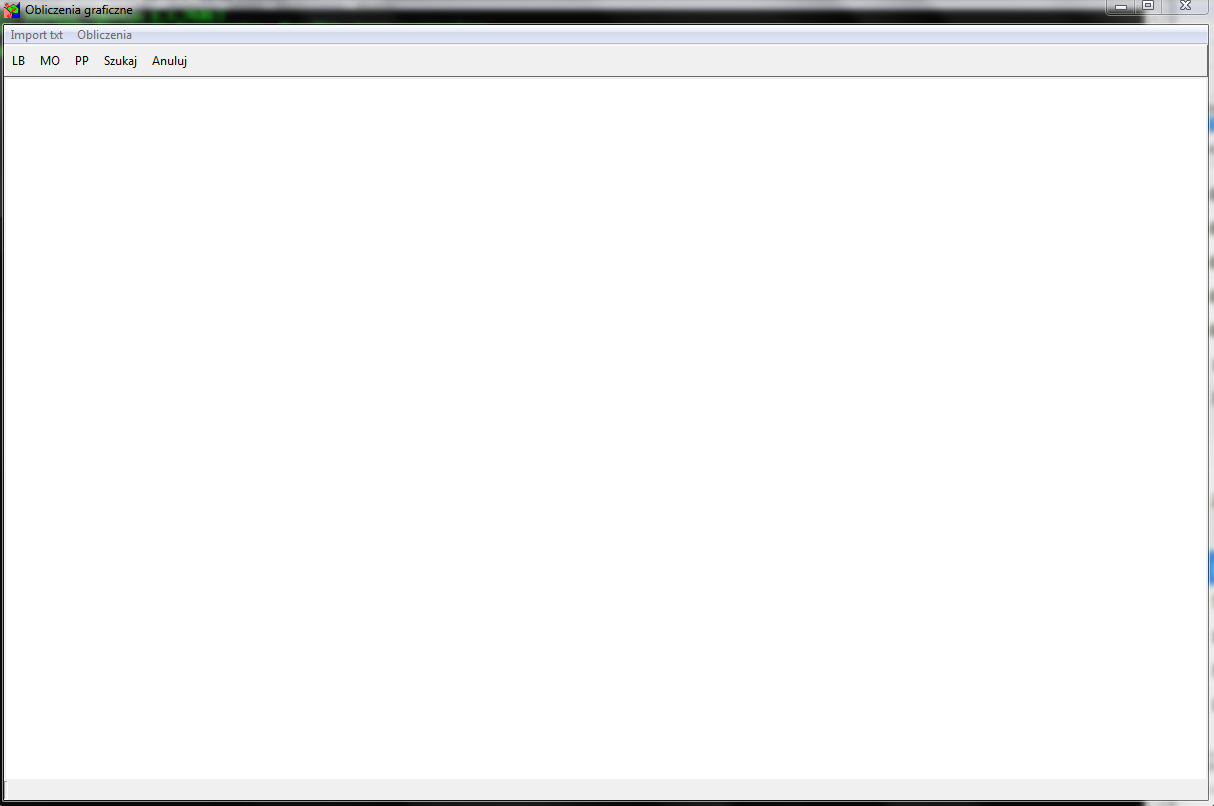
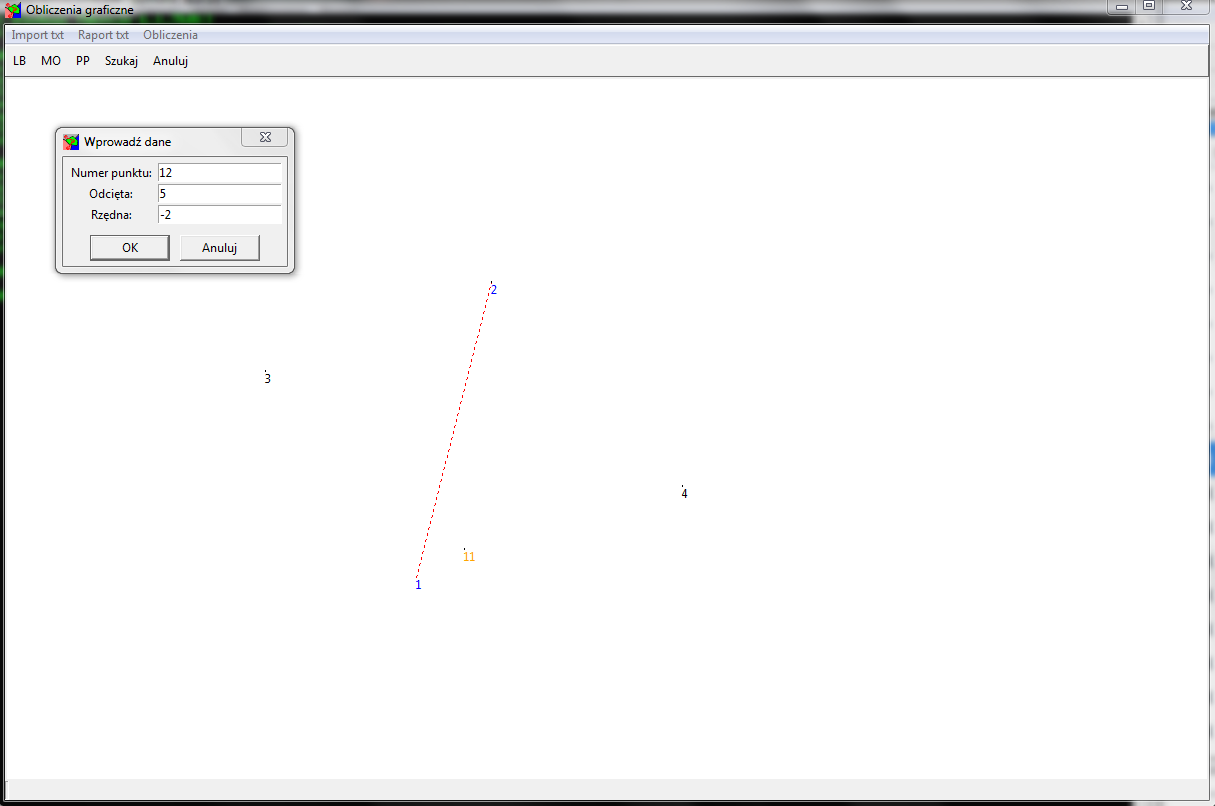
Dodano uproszczne raporty tekstowe

diff --git a/map.py b/map.py
@@ -10,7 +10,7 @@ from dialog import WDialog
 class Map(tk.Canvas):
 
     """
-    
+    Klasa będąca reprezentacją mapy dziedzicząca z bazowej klasy canvas
     """
    
 
@@ -38,10 +38,16 @@ class Map(tk.Canvas):
         
         
     def clear_point(self, id):
+        """
+        Przywracanie konfiguracji bazowej punktu
+        """
         if id is not None:
           self.itemconfigure(id, fill='black')
   
     def clear(self):
+        """
+        Anulowanie aktualnie realizowanej akcji
+        """
         self.clear_point(self.start_point.id)
         self.clear_point(self.end_point.id)
         self.start_point = None
@@ -54,6 +60,11 @@ class Map(tk.Canvas):
         
         
     def grab_start_point_number(self, event):
+        """
+        Metoda umożliwia wskazanie początku linii bazowej
+        Jedna linia bazowa umożliwa obliczenie miar ortogonalnych
+        Wskazanie dwóch po kolei umożliwia wyznaczenie ich przecięcia
+        """
         self.clear_point(self.start_point)
         x = self.canvasx(event.x)
         y = self.canvasy(event.y)
@@ -66,6 +77,9 @@ class Map(tk.Canvas):
         
         
     def grab_end_point_number(self, event):
+        """
+        Metoda umożliwia wskazanie końca linii bazowej
+        """
         self.clear_point(self.end_point)
         x = self.canvasx(event.x)
         y = self.canvasy(event.y)
@@ -79,19 +93,31 @@ class Map(tk.Canvas):
         self.sb.clear()
               
     def to_canvas_coordinates(self, px, py):
+        """
+        metoda konwertuje współrzędne geodezyjne na współrzędne obiektu canvas
+        """
         return px*self.ratio + self.offset[0], -py*self.ratio + self.offset[1]
 
     def to_geographical_coordinates(self, x, y):
+        """
+        metoda konwertuje współrzędne obiektu canvas na współrzędne geodezyjne
+        """
         px, py = (x - self.offset[0])/self.ratio, (self.offset[1] - y)/self.ratio
         return px, py
 
     def import_map(self):
+        """
+        Metoda wczytująca dane z pliku
+        """
         self.delete('all')
         self.filepath = filedialog.askopenfilename(title='Import txt')
         self.draw_map()
         self.sb.set('Wczytano plik %s' % self.filepath)
     
     def draw_map(self):
+        """
+        Metoda odpowiedzialna za rysowanie wczytywanych punktów
+        """
         pt = [i.strip().split() for i in open(self.filepath)]
         for p in pt:
             number, x, y = p
@@ -105,6 +131,9 @@ class Map(tk.Canvas):
         self.configure(scrollregion=self.bbox('all'))
          
     def linia_bazowa(self):
+        """
+        Metoda inicjująca wskazywanie linii bazowej
+        """
         if self.start_point is not None and self.end_point is not None:
             self.clear_point(self.start_point.id)
             self.clear_point(self.end_point.id)
@@ -114,6 +143,10 @@ class Map(tk.Canvas):
         self.sb.set('Wskaż początek linii pomiarowej')
         
     def ortog(self):
+        """
+        Metoda do obliczania miar ortogonalnych na podstawie elementów wskazanych przez
+        użytkownika na mapie
+        """
         self.lines = []
         if self.start_point is not None and self.end_point is not None:
             d = WDialog(self, title='Wprowadź dane', counter=self.point_number)
@@ -127,7 +160,7 @@ class Map(tk.Canvas):
                 self.last_circle_id = self.create_oval(self.to_canvas_coordinates(nowy.y, nowy.x), self.to_canvas_coordinates(nowy.y, nowy.x), stat=tk.DISABLED)
                 nowy.set_id(t)
                 self.points[t] = nowy
-                self.obliczone.append((sp, ep, nowy))
+                self.obliczone.append(['MO', str(sp), str(ep), str(nowy), str(odcieta), str(rzedna)])
                 self.point_number = num + 1
             else:
                 self.clear_point(self.start_point.id)
@@ -137,6 +170,10 @@ class Map(tk.Canvas):
                 self.bind("<Button-1>", self.grab_start_point_number)
     
     def przeciecie_prostych(self):
+        """
+        Metoda do obliczania przecięcia prostych na podstawie elementów
+        wskazanych przez użytkownika
+        """
         if len(self.lines) == 2:
             sp1, ep1 = self.lines[0]
             sp2, ep2 = self.lines[1]
@@ -147,7 +184,7 @@ class Map(tk.Canvas):
             self.last_circle_id = self.create_oval(self.to_canvas_coordinates(nowy.y, nowy.x), self.to_canvas_coordinates(nowy.y, nowy.x), stat=tk.DISABLED)
             nowy.set_id(t)
             self.points[t] = nowy
-            self.obliczone.append((sp1, ep1, sp2, ep2, nowy))
+            self.obliczone.append(['PP', str(sp1), str(ep1), str(sp2), str(ep2), str(nowy)])
             self.point_number = num + 1
             self.lines = []
         else:
@@ -155,6 +192,9 @@ class Map(tk.Canvas):
                 
                    
     def zoomer(self, event, factor=None):
+        """
+        Metoda obsługująca powiększanie i pomniejszanie zakresu mapy
+        """
         if not factor:
             factor = 1.2 if event.delta > 0 else 0.8
         event.x, event.y = self.canvasx(event.x), self.canvasy(event.y)

diff --git a/app.py b/app.py
@@ -19,15 +19,22 @@ class App:
         self.out_path = os.path.join(os.getcwd(), 'out')
         if not os.path.exists(self.out_path):
             os.mkdir(self.out_path)
-        filename = datetime.datetime.now().strftime('%Y%m%d_%H%M%S') + '.txt'
-        self.file_path = os.path.join(self.out_path, filename)
-        with open(self.file_path, 'w') as outfile:
-            outfile.close()
+        self.filename = datetime.datetime.now().strftime('%Y%m%d_%H%M%S') + '.txt'
+        self.file_path = os.path.join(self.out_path, self.filename)
+        
         self.status_bar = StatusBar(self.root)
         self.map_canvas = Map(self.root, self.status_bar, self.file_path)
         self.make_widgets()
         self.last_searched = []
         self.root.iconbitmap('./img/gcalc.ico')
+        
+    def txt_report(self):
+        with open(self.file_path, 'w') as outfile:
+            for line in self.map_canvas.obliczone:
+                wline = ' '.join(line) + '\n'
+                outfile.writelines(wline)
+            outfile.close()
+        showinfo('INFO', 'Zapisano raport %s' % self.filename)
         
     def make_widgets(self):
         
@@ -35,6 +42,7 @@ class App:
         menu_obiekty = tk.Menu(menu, tearoff=0)
         menu_etykiety = tk.Menu(menu, tearoff=0)
         menu.add_command(label="Import txt", command=self.map_canvas.import_map)
+        menu.add_command(label="Raport txt", command=self.txt_report)
         submenu_liniowe = tk.Menu(menu)
         submenu_liniowe.add_command(label="Linia Bazowa [LB]", command=self.map_canvas.linia_bazowa)
         submenu_liniowe.add_command(label="Miary ortogonalne [MO]", command=self.map_canvas.ortog)

diff --git a/calc.py b/calc.py
@@ -2,10 +2,19 @@
 import math as m
 from point import Point
 
+
+
+
 def roznice(d, delta, odl):
+    """
+    funkcja obliczająca delte dla miar ortogonalnych
+    """
     return d * (delta/odl)
     
 def domiary(numer, sp, ep, odcieta, rzedna):
+    """
+    funkcja obliczająca punkt z miar ortogonalnych
+    """
     sp.dist(ep)
     
     dxa = roznice(odcieta, (ep.x-sp.x), sp.d)
@@ -23,6 +32,9 @@ def domiary(numer, sp, ep, odcieta, rzedna):
     return Point(str(numer), round(xN, 2), round(yN, 2))
 
 def przeciecie(numer, sp, ep, sp2, ep2):
+    """
+    funckja obliczająca punkt stanowiący przecięcie dwóch prostych
+    """
     l = (ep.y - sp.y)/(ep.x - sp.x)
     m = (ep2.y - sp2.y)/(ep2.x - sp2.x)
     

diff --git a/point.py b/point.py
@@ -17,8 +17,7 @@ class Point(object):
         self.id = id # unikatowy identyfikator obiektu na mapie
 
     def __str__(self):
-        return "{} {} {} {}".format(self.number, str(self.x), str(self.y),
-                                    str(self.d))
+        return "{} {} {}".format(self.number, str(self.x), str(self.y))
 
     def save(self):
         return "{} {} {} {}\n".format(self.number, str(round(self.x, 2)),

diff --git a/dialog.py b/dialog.py
@@ -4,6 +4,12 @@ from tkinter import *
 
 
 class WDialog(Toplevel):
+    
+    """
+    Klasa okna do obliczeń miar ortogonalnych, użytkownik może podać numer punktu
+    oraz odciętą i rzędną do punktu
+    """
+    
 
     def __init__(self, parent, title = None, counter=1):
 

diff --git a/README.md b/README.md
@@ -23,7 +23,18 @@ python app.py
 
 ![Okno główne](img/main.png)
 
-Powyżej główne okno programu 
+Powyżej główne okno programu
+
+Punkty osnowy wczytujemy z pliku poprzez "Import txt" dane w pierwszej kolumnie powinny zwierać numer punktu w kolejnych jego współrzędne X i Y
+Opcja "Linia Bazowa LB" z menu "Obliczenia" lub z paska narzędzi umożliwia wskazanie linii bazowej poprzez wskazanie punktu początkowego oraz końcowego. W przypadku gdy w następnym kroku chcemy wykonywać obliczenia związane z miarami ortogonalnymi linię wskazujemy raz, natomiast gdy potrzebujemy wyznaczyć przcięcie punktów wskazujemy dwie linie bazowe za każdy razem aktywując opcję "LB".
+
+Dla miar ortogonalnych "MO" pojawi się dodatkowe okno umożliwiające podanie numeru punktu (numeracja automatycznie wzrasta, ustawiona domyślnie na 1) oraz odciętej i rzędnej do szukanego punktu.
+
+W przypadku przecięcia prostych "PP" punkt zostanie obliczony automatycznie po wskazaniu dwóch linii bazowych.
+
+Opcja "Raport txt" umożliwia zapisanie obliczonych punktów do pliku tekstowego w formie prostego raportu. 
+
+
 
 ## Uruchamianie testów
 
@@ -43,10 +54,12 @@ python -m pytest --cov-report term-missing --cov=gcalc .
 
 Poniżej lista rzeczy które powinny zostać dodane w najbliższym czasie
 
-* anulowanie aktualnej operacji
-* możliwość generowania raportów 
-* dodatkowe moduły obliczeń (wcięcia)
-* czasowe wyświetlanie komunikatów na pasku status
+- [x] anulowanie aktualnej operacji
+- [x] możliwość generowania raportów 
+- [ ] konwersja prostych raportów do lepszej wizualnie postaci
+- [ ] dodatkowe moduły obliczeń (wcięcia)
+- [ ] czasowe wyświetlanie komunikatów na pasku status
+- [ ] możliwość zmiany numeru punktu
 
 
 
